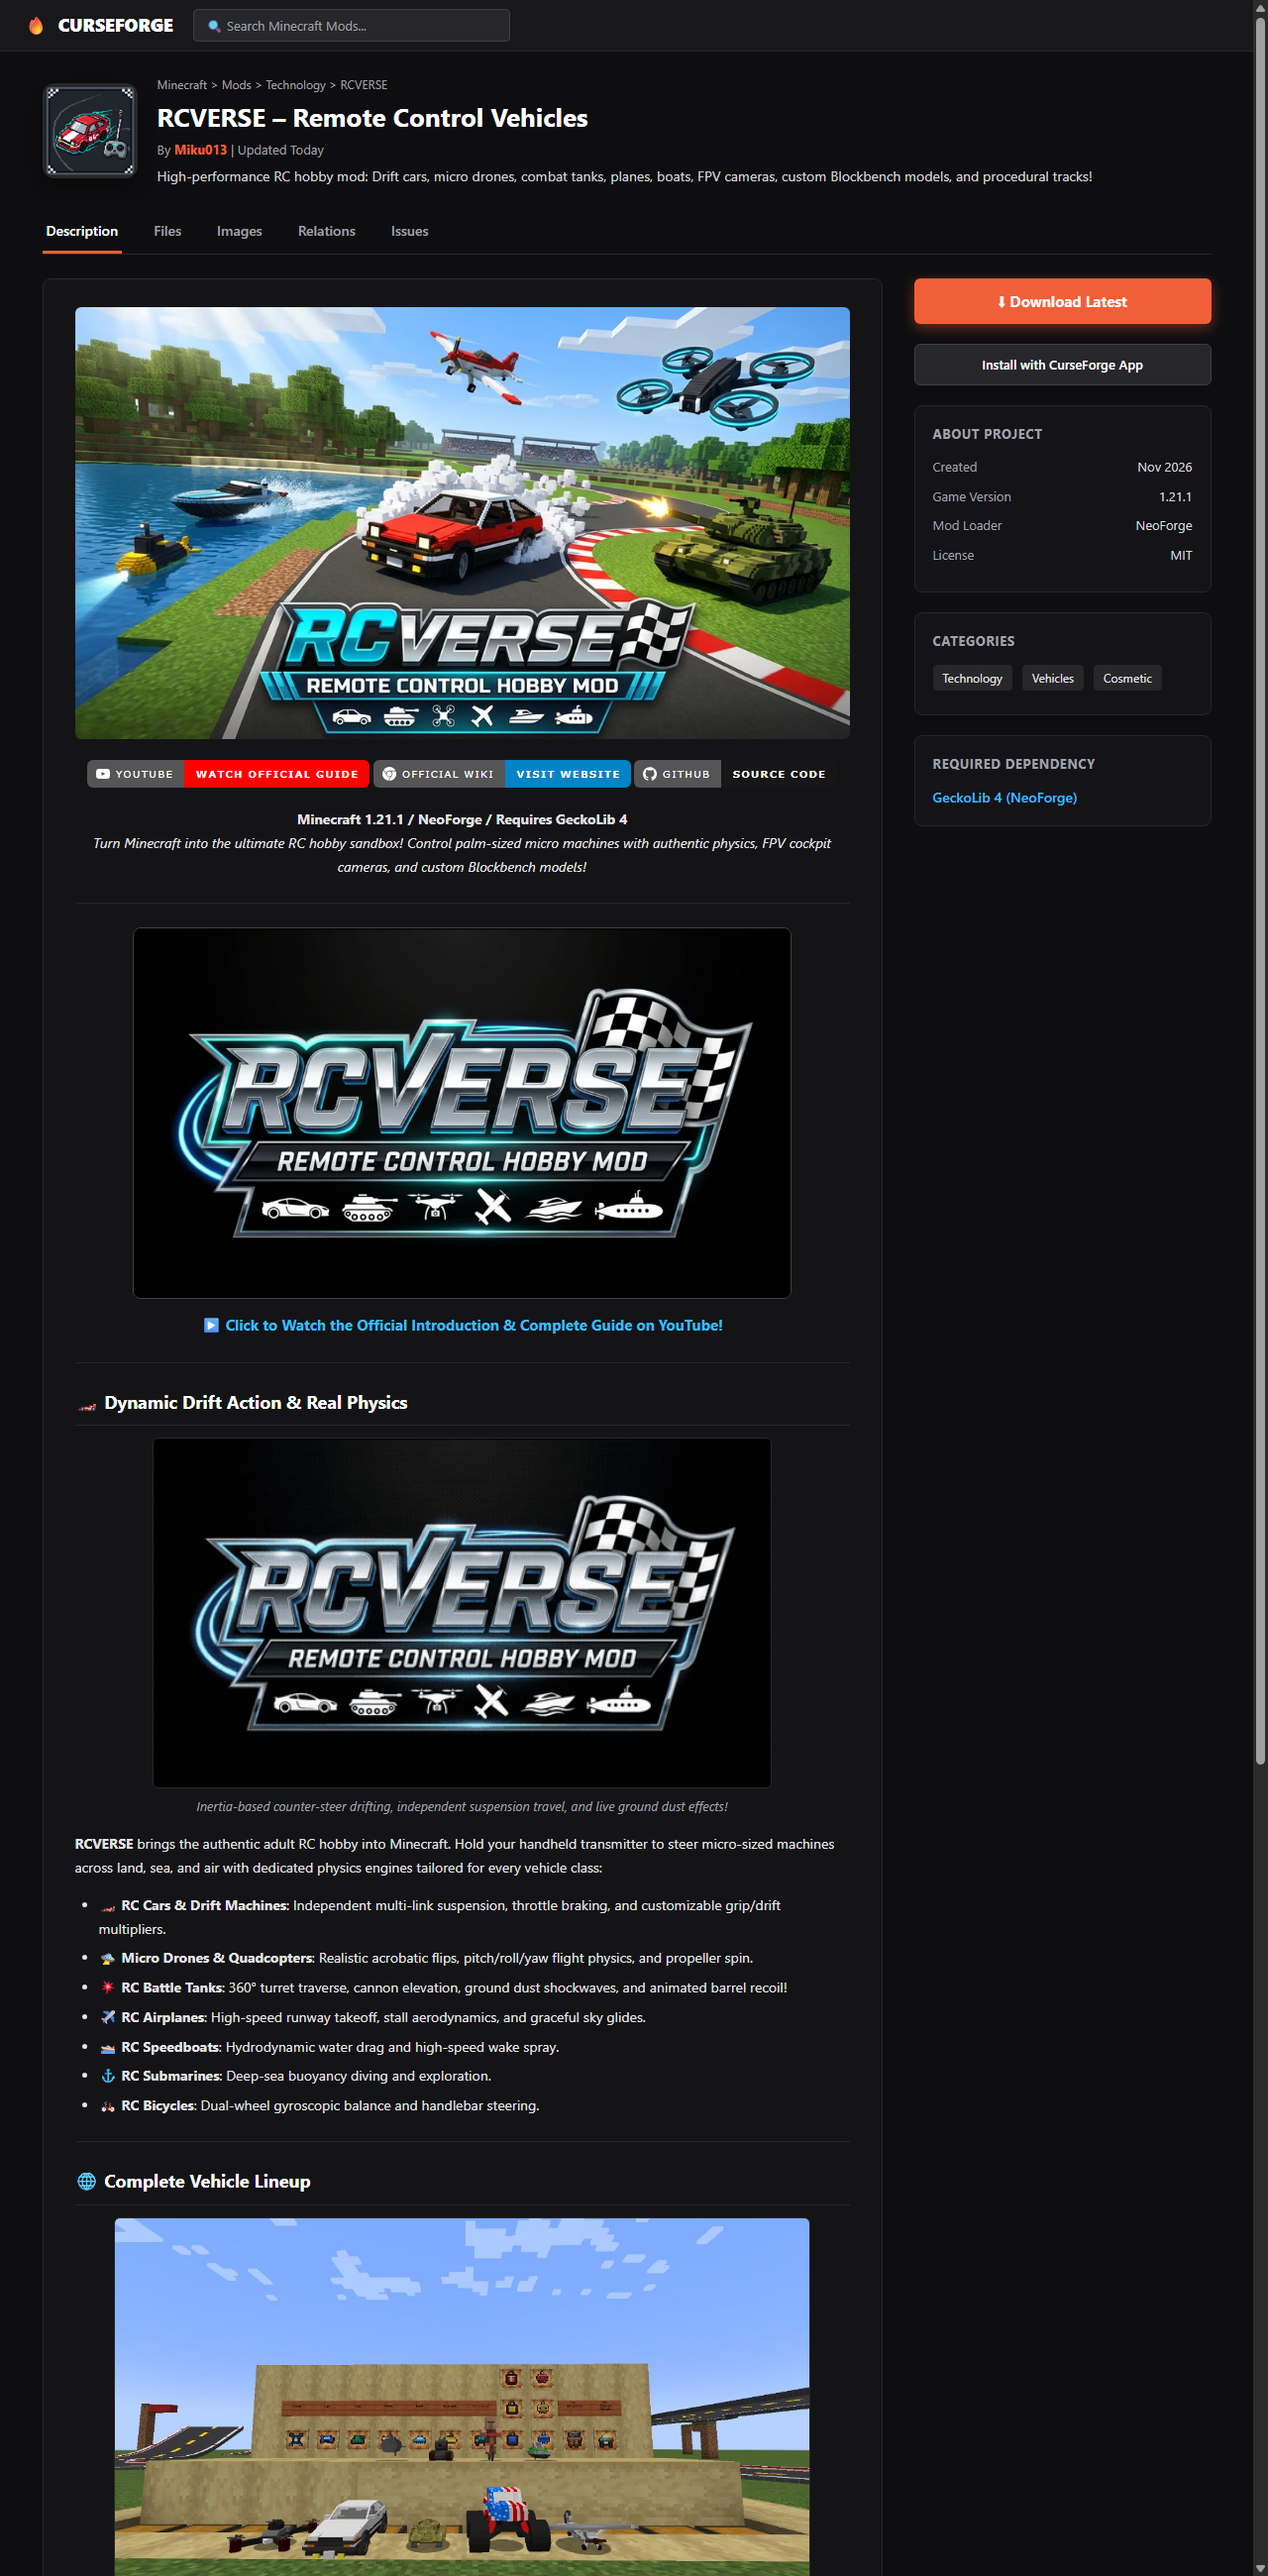
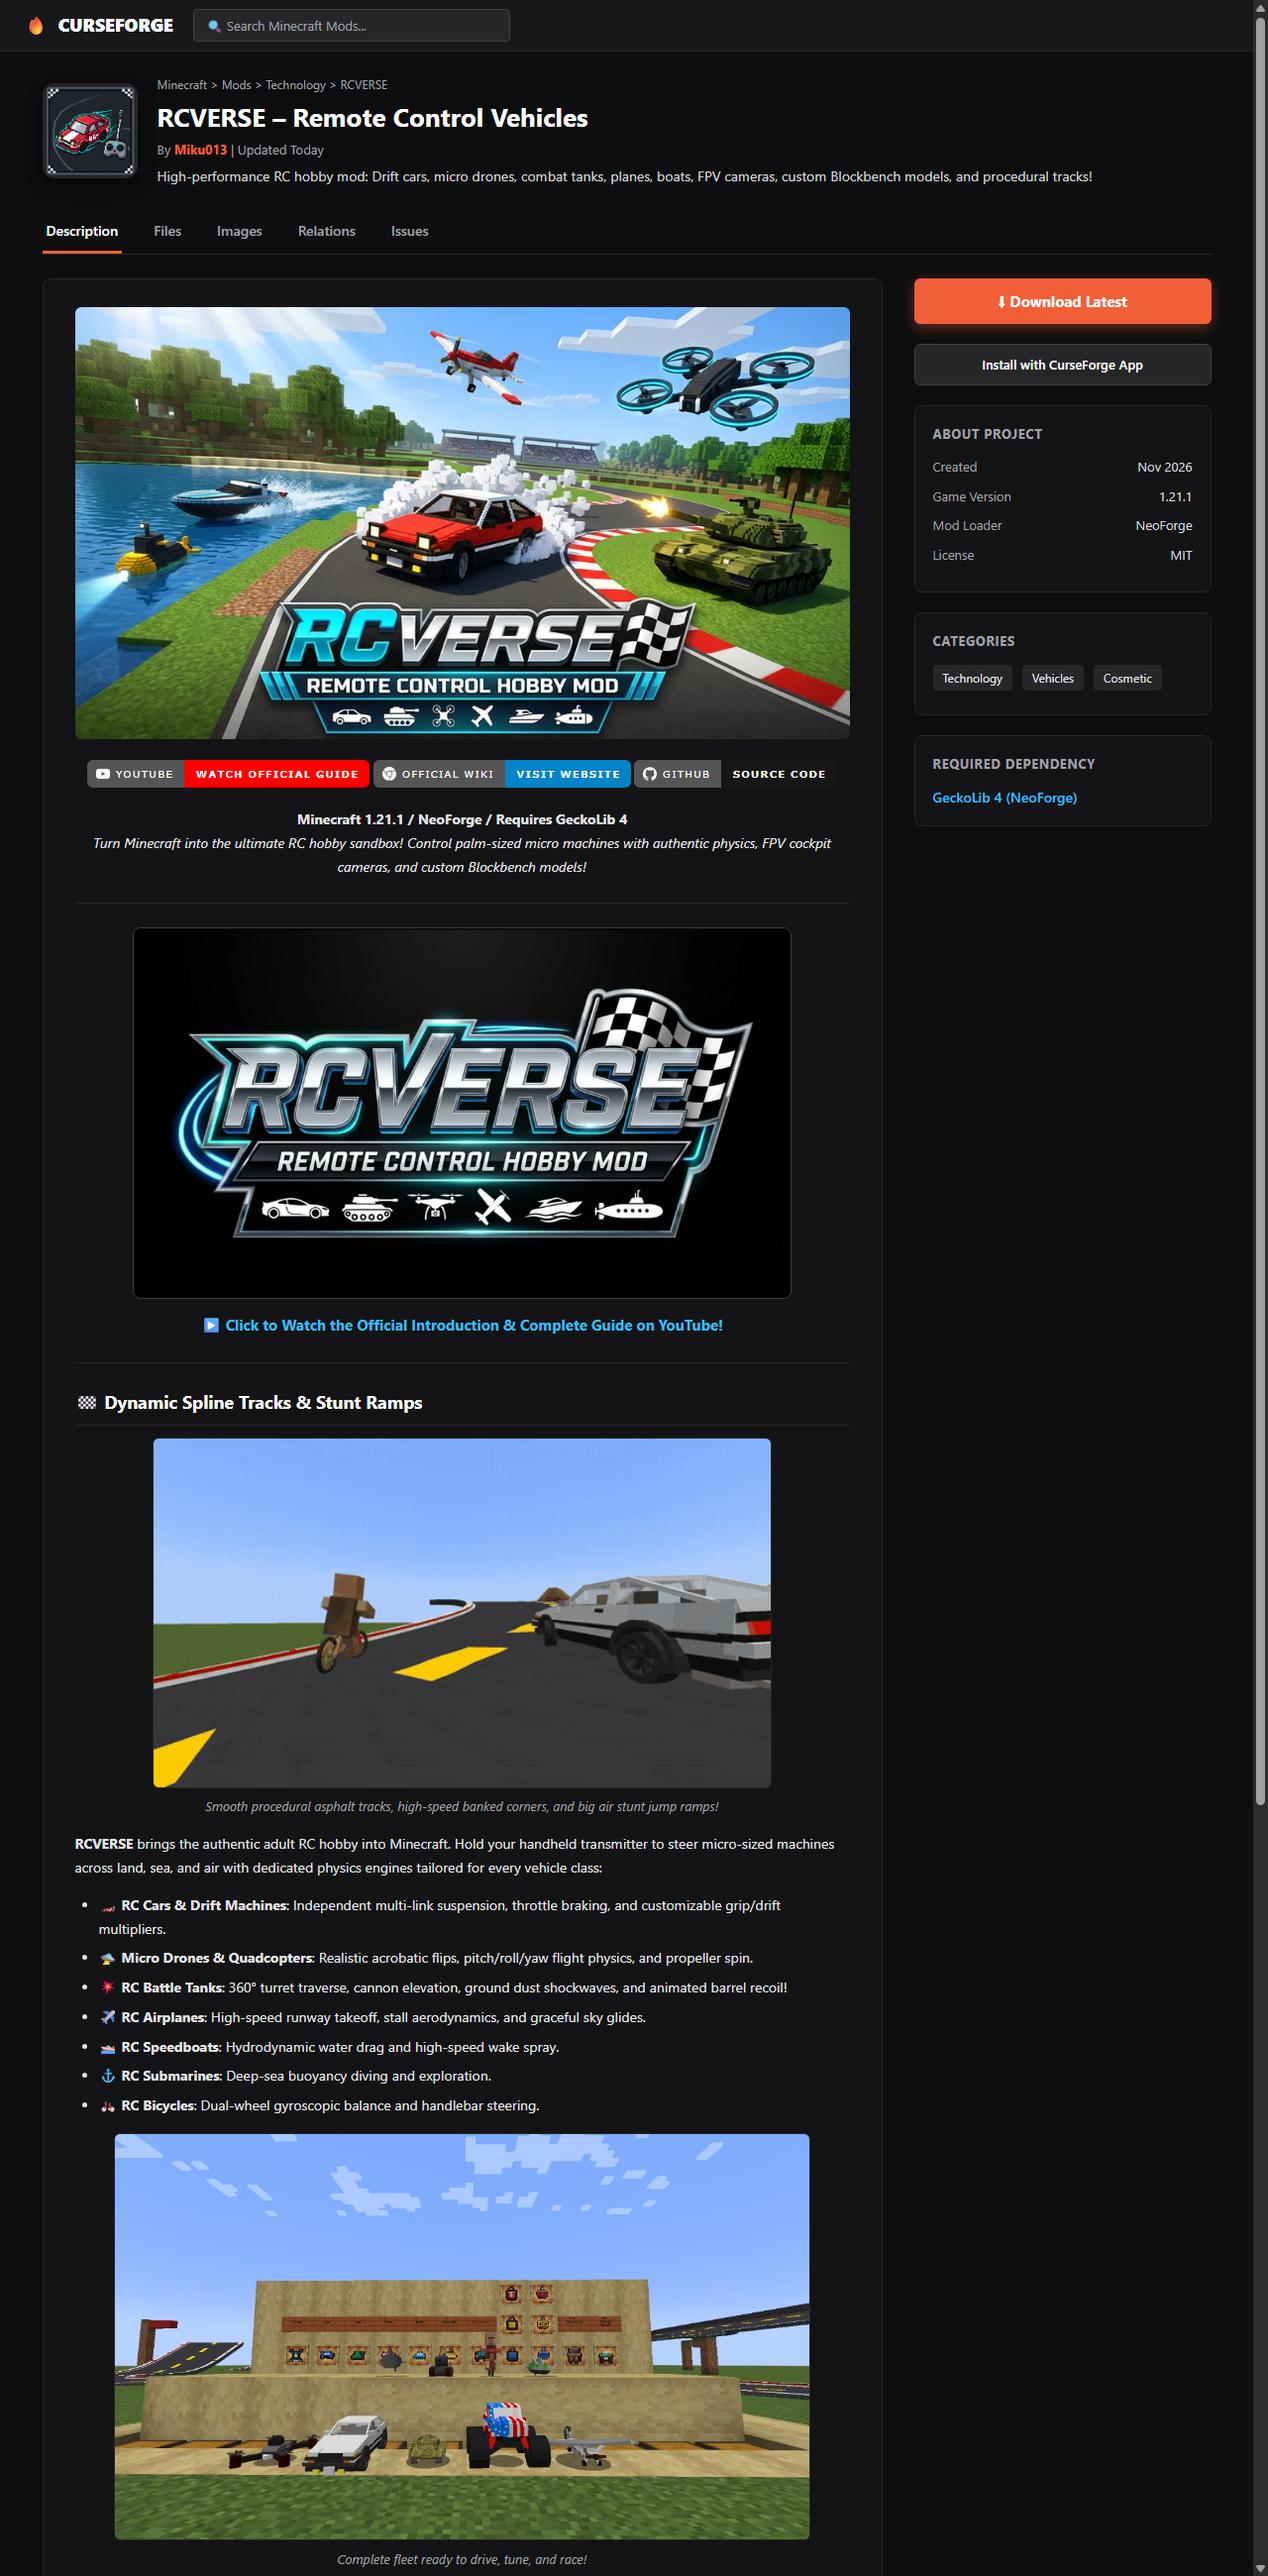
docs: fix GIF mappings to match actual video content (jumps and tank cannon)

Changed region(s): [[0.0625, 0.81, 0.6562, 1.0], [0.0938, 0.5296, 0.625, 0.7165], [0.9688, 0.6854, 1.0, 0.7165]]

diff --git a/docs/curseforge_preview.html b/docs/curseforge_preview.html
@@ -325,12 +325,12 @@
 
         <hr>
 
-        <h2>🏎 Dynamic Drift Action & Real Physics</h2>
+        <h2>🏁 Dynamic Spline Tracks & Stunt Ramps</h2>
 
         <p align="center">
-          <img src="images/gifs/rc_drift.gif" width="80%" style="border: 1px solid #27272a;" alt="RC Drift Action GIF">
+          <img src="images/gifs/rc_jump.gif" width="80%" style="border: 1px solid #27272a;" alt="RC Spline Track & Jump Action GIF">
           <br>
-          <em style="color: #a1a1aa; font-size: 13px;">Inertia-based counter-steer drifting, independent suspension travel, and live ground dust effects!</em>
+          <em style="color: #a1a1aa; font-size: 13px;">Smooth procedural asphalt tracks, high-speed banked corners, and big air stunt jump ramps!</em>
         </p>
 
         <p>
@@ -348,24 +348,20 @@
           <li>🚲 <strong>RC Bicycles</strong>: Dual-wheel gyroscopic balance and handlebar steering.</li>
         </ul>
 
-        <hr>
-
-        <h2>🌐 Complete Vehicle Lineup</h2>
-
         <p align="center">
           <img src="images/screenshots/showroom_all_vehicles.jpg" width="90%" style="border: 1px solid #27272a;" alt="RCVERSE All Vehicles">
           <br>
-          <em style="color: #a1a1aa; font-size: 13px;">All machines are ready to craft, upgrade, and race with friends!</em>
+          <em style="color: #a1a1aa; font-size: 13px;">Complete fleet ready to drive, tune, and race!</em>
         </p>
 
         <hr>
 
-        <h2>🏁 Dynamic Stunt Loops & Spline Race Tracks</h2>
+        <h2>💥 Explosive Combat & RC Tank Battles</h2>
 
         <p align="center">
-          <img src="images/gifs/rc_stunt.gif" width="80%" style="border: 1px solid #27272a;" alt="RC Stunt Loop GIF">
+          <img src="images/gifs/rc_tank_cannon.gif" width="80%" style="border: 1px solid #27272a;" alt="RC Tank Cannon Fire GIF">
           <br>
-          <em style="color: #a1a1aa; font-size: 13px;">Place Road Generation Markers to create procedural asphalt tracks, banked corners, and 360° vertical stunt loops!</em>
+          <em style="color: #a1a1aa; font-size: 13px;">Independent turret rotation, high-explosive cannon shots, and realistic recoil kickback!</em>
         </p>
 
         <hr>

diff --git a/docs/CURSEFORGE_DESCRIPTION.md b/docs/CURSEFORGE_DESCRIPTION.md
@@ -40,12 +40,12 @@
 
 <hr>
 
-<h2>🏎 Dynamic Drift Action & Real Physics</h2>
+<h2>🏁 Dynamic Spline Tracks & Stunt Ramps</h2>
 
 <p align="center">
-  <img src="https://raw.githubusercontent.com/Miku013/RCVERSE/main/docs/images/gifs/rc_drift.gif" width="80%" alt="RC Drift Action GIF">
+  <img src="https://raw.githubusercontent.com/Miku013/RCVERSE/main/docs/images/gifs/rc_jump.gif" width="80%" alt="RC Spline Track & Jump Action GIF">
   <br>
-  <em>Inertia-based counter-steer drifting, independent suspension travel, and live ground dust effects!</em>
+  <em>Smooth procedural asphalt tracks, high-speed banked corners, and big air stunt jump ramps!</em>
 </p>
 
 <p>
@@ -63,24 +63,20 @@
   <li>🚲 <strong>RC Bicycles</strong>: Dual-wheel gyroscopic balance and handlebar steering.</li>
 </ul>
 
-<hr>
-
-<h2>🌐 Complete Vehicle Lineup</h2>
-
 <p align="center">
   <img src="https://raw.githubusercontent.com/Miku013/RCVERSE/main/docs/images/screenshots/showroom_all_vehicles.jpg" width="90%" alt="RCVERSE All Vehicles">
   <br>
-  <em>All machines are ready to craft, upgrade, and race with friends!</em>
+  <em>Complete fleet ready to drive, tune, and race!</em>
 </p>
 
 <hr>
 
-<h2>🏁 Dynamic Stunt Loops & Spline Race Tracks</h2>
+<h2>💥 Explosive Combat & RC Tank Battles</h2>
 
 <p align="center">
-  <img src="https://raw.githubusercontent.com/Miku013/RCVERSE/main/docs/images/gifs/rc_stunt.gif" width="80%" alt="RC Stunt Loop GIF">
+  <img src="https://raw.githubusercontent.com/Miku013/RCVERSE/main/docs/images/gifs/rc_tank_cannon.gif" width="80%" alt="RC Tank Cannon Fire GIF">
   <br>
-  <em>Place Road Generation Markers to create procedural asphalt tracks, banked corners, and 360° vertical stunt loops!</em>
+  <em>Independent turret rotation, high-explosive cannon shots, and realistic recoil kickback!</em>
 </p>
 
 <hr>
